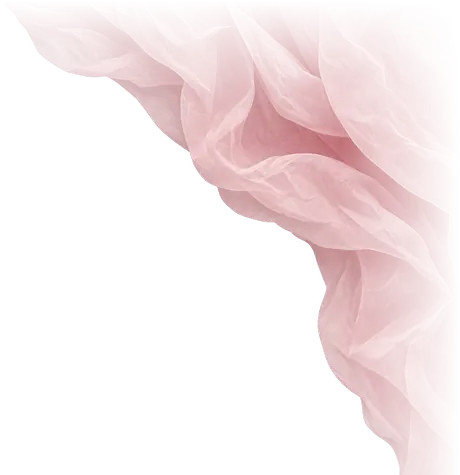
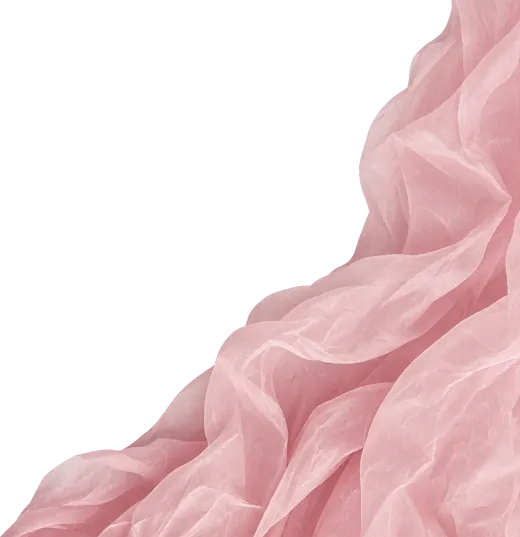
La tela sale entera, sin difuminar nada
Difuminar fue un parche y se notaba: no parecía tela, parecía una mancha.

La lámina viene cortada en recto por arriba y por la derecha. Volteada en
vertical, esos dos cantos pasan a abajo y a la derecha, que es justo por
donde se sale de la página: los recorta el canto de la columna y el final de
la sección, que ya son bordes de verdad. Lo que queda a la vista es el
pliegue entero, sin nada que disimular. Va en píxeles y no en %, para que el
trozo que asoma no cambie con el alto de la sección.

Y al colocarla salió un fallo mío de antes: puse `overflow-x: clip` en las
secciones creyendo que el navegador arrastraba el otro eje. No lo hace.
Recortaba a lo ancho pero dejaba pasar lo que sobraba por abajo, y la tela se
salía del papel sobre el campo de los lados. Ahora es `overflow: clip`, en
los dos ejes; comprobado que la escena de Soffia sigue pegándose.

Comprobado a 375, 480 y 640: sin choques, sin desbordes, sin imágenes rotas.

diff --git a/index.html b/index.html
@@ -11,10 +11,10 @@
 <link rel="preconnect" href="https://fonts.googleapis.com">
 <link rel="preconnect" href="https://fonts.gstatic.com" crossorigin>
 <link rel="stylesheet" href="https://fonts.googleapis.com/css2?family=Cormorant+Garamond:ital,wght@0,300;0,400;0,500;0,600;1,300;1,400&family=Jost:wght@300;400;500&family=Great+Vibes&display=swap">
-<!-- El estilo se decide antes de pintar nada: si se pusiera desde script.js?v=1795373914-2f91c5d
+<!-- El estilo se decide antes de pintar nada: si se pusiera desde script.js?v=1795374507-0600d23
      se vería un parpadeo del estilo viejo al nuevo. Manda ?estilo= de la URL;
-     si no, lo que diga datos.js?v=1795373914-2f91c5d (y por defecto, «papel»). -->
-<script src="datos.js?v=1795373914-2f91c5d"></script>
+     si no, lo que diga datos.js?v=1795374507-0600d23 (y por defecto, «papel»). -->
+<script src="datos.js?v=1795374507-0600d23"></script>
 <script>
   (function () {
     var p = new URLSearchParams(location.search).get('estilo');
@@ -24,8 +24,8 @@
     if (e) try { sessionStorage.setItem('estilo', e); } catch (x) {}
   })();
 </script>
-<link rel="preload" as="image" href="assets/apertura-poster.webp?v=1795373914-2f91c5d">
-<link rel="stylesheet" href="styles.css?v=1795373914-2f91c5d">
+<link rel="preload" as="image" href="assets/apertura-poster.webp?v=1795374507-0600d23">
+<link rel="stylesheet" href="styles.css?v=1795374507-0600d23">
 </head>
 <body class="sin-abrir">
 
@@ -39,21 +39,21 @@
             aria-label="Abrir la invitación de Soffia">
      <span class="lienzo">
       <!-- 1 · el sobre cerrado, quieto, hasta que tocan -->
-      <img class="capa" id="capa-poster" src="assets/apertura-poster.webp?v=1795373914-2f91c5d" alt=""
+      <img class="capa" id="capa-poster" src="assets/apertura-poster.webp?v=1795374507-0600d23" alt=""
            width="1080" height="1920" fetchpriority="high">
 
       <!-- 2 · los dos vídeos, uno detrás de otro. Son dos elementos y no uno
            con la fuente cambiada: así el segundo ya está descargado y pintado
            cuando acaba el primero, y el corte no parpadea. -->
       <video class="capa" id="video-1" muted playsinline preload="auto"
-             aria-hidden="true" src="assets/apertura-1.mp4?v=1795373914-2f91c5d"></video>
+             aria-hidden="true" src="assets/apertura-1.mp4?v=1795374507-0600d23"></video>
       <video class="capa" id="video-2" muted playsinline preload="none"
              aria-hidden="true"></video>
 
       <!-- 3 · la hoja: es el último fotograma del segundo vídeo, así que el
            relevo no se ve. Hace falta porque el navegador tira la imagen de un
            vídeo pausado al salir de pantalla y al volver dibuja la primera. -->
-      <img class="capa" id="capa-final" src="assets/apertura-final.webp?v=1795373914-2f91c5d" alt=""
+      <img class="capa" id="capa-final" src="assets/apertura-final.webp?v=1795374507-0600d23" alt=""
            width="1080" height="1920" fetchpriority="low">
 
       <!-- 3b · y la hoja se asienta: el fotograma del vídeo recorta un 18 %
@@ -61,7 +61,7 @@
            entera y entra creciendo hacia su tamaño real, así que el reencuadre
            se lee como el papel posándose y no como un salto. -->
       <span class="capa hoja-posada" id="hoja-posada" aria-hidden="true">
-        <img src="assets/hoja.webp?v=1795373914-2f91c5d" alt="" width="720" height="1168"
+        <img src="assets/hoja.webp?v=1795374507-0600d23" alt="" width="720" height="1168"
              fetchpriority="low">
       </span>
 
@@ -102,8 +102,8 @@
 <!-- ══════════════ 2 · LA ILUSIÓN ══════════════ -->
 <section class="seccion s-nota" id="nota">
   <div class="costura costura-arriba invertida" aria-hidden="true"></div>
-  <img class="adorno ad-estrellas ad-estrellas-izq" src="assets/ad-estrellas-c.webp?v=1795373914-2f91c5d" alt="" aria-hidden="true" loading="lazy" data-parallax="0.12">
-  <img class="adorno ad-globo" src="assets/ad-globo.webp?v=1795373914-2f91c5d" alt="" aria-hidden="true" loading="lazy" data-parallax="0.08">
+  <img class="adorno ad-estrellas ad-estrellas-izq" src="assets/ad-estrellas-c.webp?v=1795374507-0600d23" alt="" aria-hidden="true" loading="lazy" data-parallax="0.12">
+  <img class="adorno ad-globo" src="assets/ad-globo.webp?v=1795374507-0600d23" alt="" aria-hidden="true" loading="lazy" data-parallax="0.08">
 
   <div class="envoltorio">
     <p class="parrafo-grande revela" id="msj-presentacion" style="--i:0"></p>
@@ -113,8 +113,8 @@
 <!-- ══════════════ 3 · SOFFIA ══════════════ -->
 <section class="seccion s-soffia" id="soffia">
   <div class="costura costura-arriba" aria-hidden="true"></div>
-  <img class="adorno ad-brillo ad-brillo-esferas" src="assets/ad-brillo.webp?v=1795373914-2f91c5d" alt="" aria-hidden="true" loading="lazy" data-parallax="0.13">
-  <img class="adorno ad-esferas" src="assets/ad-esferas.webp?v=1795373914-2f91c5d" alt="" aria-hidden="true" loading="lazy" data-parallax="0.10">
+  <img class="adorno ad-brillo ad-brillo-esferas" src="assets/ad-brillo.webp?v=1795374507-0600d23" alt="" aria-hidden="true" loading="lazy" data-parallax="0.13">
+  <img class="adorno ad-esferas" src="assets/ad-esferas.webp?v=1795374507-0600d23" alt="" aria-hidden="true" loading="lazy" data-parallax="0.10">
 
   <!-- el puente: lo último que se lee antes de que se abran las rosas -->
   <div class="envoltorio">
@@ -131,13 +131,13 @@
     <div class="retrato-marco">
       <img id="foto-portada" alt="Fotografía de Soffia" hidden>
       <div class="retrato-vacio" id="retrato-vacio">
-        <img src="assets/flor-hojas.webp?v=1795373914-2f91c5d" alt="" loading="lazy">
+        <img src="assets/flor-hojas.webp?v=1795374507-0600d23" alt="" loading="lazy">
         <p>Aquí irá la fotografía de Soffia</p>
       </div>
       <!-- tres paneles de rosas: arriba sube, izquierda y derecha se abren -->
-      <img class="velo velo-arriba" src="assets/panel-arriba.webp?v=1795373914-2f91c5d" alt="" loading="lazy">
-      <img class="velo velo-izq" src="assets/panel-izq.webp?v=1795373914-2f91c5d" alt="" loading="lazy">
-      <img class="velo velo-der" src="assets/panel-der.webp?v=1795373914-2f91c5d" alt="" loading="lazy">
+      <img class="velo velo-arriba" src="assets/panel-arriba.webp?v=1795374507-0600d23" alt="" loading="lazy">
+      <img class="velo velo-izq" src="assets/panel-izq.webp?v=1795374507-0600d23" alt="" loading="lazy">
+      <img class="velo velo-der" src="assets/panel-der.webp?v=1795374507-0600d23" alt="" loading="lazy">
     </div>
     <span class="costura costura-foto arriba" aria-hidden="true"></span>
     <span class="costura costura-foto abajo" aria-hidden="true"></span>
@@ -160,8 +160,8 @@
 <!-- ══════════════ 3 · CUÁNDO Y DÓNDE ══════════════ -->
 <section class="seccion s-cuando" id="cuando">
   <div class="costura costura-arriba invertida" aria-hidden="true"></div>
-  <img class="adorno ad-estrellas ad-estrellas-der" src="assets/ad-estrellas-b.webp?v=1795373914-2f91c5d" alt="" aria-hidden="true" loading="lazy" data-parallax="0.12">
-  <img class="adorno ad-guirnalda" src="assets/ad-guirnalda.webp?v=1795373914-2f91c5d" alt="" aria-hidden="true" loading="lazy" data-parallax="0.11">
+  <img class="adorno ad-estrellas ad-estrellas-der" src="assets/ad-estrellas-b.webp?v=1795374507-0600d23" alt="" aria-hidden="true" loading="lazy" data-parallax="0.12">
+  <img class="adorno ad-guirnalda" src="assets/ad-guirnalda.webp?v=1795374507-0600d23" alt="" aria-hidden="true" loading="lazy" data-parallax="0.11">
 
   <div class="envoltorio">
     <p class="antetitulo revela" style="--i:0">Cuándo</p>
@@ -182,8 +182,8 @@
 <!-- ══════════════ 4b · DÓNDE ══════════════ -->
 <section class="seccion s-donde" id="donde">
   <div class="costura costura-arriba" aria-hidden="true"></div>
-  <img class="adorno ad-estrellas ad-estrellas-izq" src="assets/ad-estrellas-c.webp?v=1795373914-2f91c5d" alt="" aria-hidden="true" loading="lazy" data-parallax="0.12">
-  <img class="adorno ad-perlas" src="assets/ad-perlas.webp?v=1795373914-2f91c5d" alt="" aria-hidden="true" loading="lazy" data-parallax="0.12">
+  <img class="adorno ad-estrellas ad-estrellas-izq" src="assets/ad-estrellas-c.webp?v=1795374507-0600d23" alt="" aria-hidden="true" loading="lazy" data-parallax="0.12">
+  <img class="adorno ad-perlas" src="assets/ad-perlas.webp?v=1795374507-0600d23" alt="" aria-hidden="true" loading="lazy" data-parallax="0.12">
 
   <div class="envoltorio">
     <p class="antetitulo revela" style="--i:0">Dónde</p>
@@ -196,8 +196,8 @@
 <!-- ══════════════ 4 · ITINERARIO ══════════════ -->
 <section class="seccion s-itinerario" id="itinerario">
   <div class="costura costura-arriba" aria-hidden="true"></div>
-  <img class="adorno ad-estrellas ad-estrellas-der" src="assets/ad-estrellas-a.webp?v=1795373914-2f91c5d" alt="" aria-hidden="true" loading="lazy" data-parallax="0.12">
-  <img class="adorno ad-mono-a" src="assets/ad-mono-a.webp?v=1795373914-2f91c5d" alt="" aria-hidden="true" loading="lazy" data-parallax="0.10">
+  <img class="adorno ad-estrellas ad-estrellas-der" src="assets/ad-estrellas-a.webp?v=1795374507-0600d23" alt="" aria-hidden="true" loading="lazy" data-parallax="0.12">
+  <img class="adorno ad-mono-a" src="assets/ad-mono-a.webp?v=1795374507-0600d23" alt="" aria-hidden="true" loading="lazy" data-parallax="0.10">
 
   <div class="envoltorio">
     <p class="antetitulo revela" style="--i:0">Así celebraremos</p>
@@ -214,8 +214,8 @@
 <!-- ══════════════ 5 · VESTIMENTA ══════════════ -->
 <section class="seccion s-vestir" id="vestir" hidden>
   <div class="costura costura-arriba invertida" aria-hidden="true"></div>
-  <img class="adorno ad-estrellas ad-estrellas-izq" src="assets/ad-estrellas-c.webp?v=1795373914-2f91c5d" alt="" aria-hidden="true" loading="lazy" data-parallax="0.12">
-  <img class="adorno ad-cintas" src="assets/ad-cintas.webp?v=1795373914-2f91c5d" alt="" aria-hidden="true" loading="lazy" data-parallax="0.10">
+  <img class="adorno ad-estrellas ad-estrellas-izq" src="assets/ad-estrellas-c.webp?v=1795374507-0600d23" alt="" aria-hidden="true" loading="lazy" data-parallax="0.12">
+  <img class="adorno ad-cintas" src="assets/ad-cintas.webp?v=1795374507-0600d23" alt="" aria-hidden="true" loading="lazy" data-parallax="0.10">
 
   <div class="envoltorio">
     <div class="vestimenta" id="vestimenta" hidden></div>
@@ -225,9 +225,9 @@
 <!-- ══════════════ 6 · CONFIRMACIÓN ══════════════ -->
 <section class="seccion s-confirmar" id="confirmar">
   <div class="costura costura-arriba" aria-hidden="true"></div>
-  <img class="adorno ad-estrellas ad-estrellas-izq" src="assets/ad-estrellas-b.webp?v=1795373914-2f91c5d" alt="" aria-hidden="true" loading="lazy" data-parallax="0.12">
-  <img class="adorno ad-brillo ad-brillo-globos" src="assets/ad-brillo.webp?v=1795373914-2f91c5d" alt="" aria-hidden="true" loading="lazy" data-parallax="0.13">
-  <img class="adorno ad-globos" src="assets/ad-globos.webp?v=1795373914-2f91c5d" alt="" aria-hidden="true" loading="lazy" data-parallax="0.09">
+  <img class="adorno ad-estrellas ad-estrellas-izq" src="assets/ad-estrellas-b.webp?v=1795374507-0600d23" alt="" aria-hidden="true" loading="lazy" data-parallax="0.12">
+  <img class="adorno ad-brillo ad-brillo-globos" src="assets/ad-brillo.webp?v=1795374507-0600d23" alt="" aria-hidden="true" loading="lazy" data-parallax="0.13">
+  <img class="adorno ad-globos" src="assets/ad-globos.webp?v=1795374507-0600d23" alt="" aria-hidden="true" loading="lazy" data-parallax="0.09">
 
   <div class="envoltorio">
     <p class="antetitulo revela" style="--i:0">Nos vemos en mis XV</p>
@@ -239,15 +239,15 @@
 <!-- ══════════════ 7 · DESPEDIDA ══════════════ -->
 <section class="seccion s-cierre" id="cierre">
   <div class="costura costura-arriba invertida" aria-hidden="true"></div>
-  <img class="adorno ad-tela" src="assets/ad-tela.webp?v=1795373914-2f91c5d" alt="" aria-hidden="true" loading="lazy" data-parallax="0.07">
-  <img class="adorno ad-estrellas ad-estrellas-der" src="assets/ad-estrellas-c.webp?v=1795373914-2f91c5d" alt="" aria-hidden="true" loading="lazy" data-parallax="0.12">
-  <img class="adorno ad-mono-b" src="assets/ad-mono-b.webp?v=1795373914-2f91c5d" alt="" aria-hidden="true" loading="lazy" data-parallax="0.10">
+  <img class="adorno ad-tela" src="assets/ad-tela.webp?v=1795374507-0600d23" alt="" aria-hidden="true" loading="lazy" data-parallax="0.07">
+  <img class="adorno ad-estrellas ad-estrellas-der" src="assets/ad-estrellas-c.webp?v=1795374507-0600d23" alt="" aria-hidden="true" loading="lazy" data-parallax="0.12">
+  <img class="adorno ad-mono-b" src="assets/ad-mono-b.webp?v=1795374507-0600d23" alt="" aria-hidden="true" loading="lazy" data-parallax="0.10">
   <!-- el cierre se monta en tres piezas: la rosa donde aterriza la que cae,
        y el follaje de cada lado, que sale de detrás cuando ya está posada -->
   <span class="flor flor-cierre-b" aria-hidden="true" data-parallax="0.09">
-    <img class="cierre-hoja cierre-izq" src="assets/flor-bajo-izq.webp?v=1795373914-2f91c5d" alt="" loading="lazy">
-    <img class="cierre-hoja cierre-der" src="assets/flor-bajo-der.webp?v=1795373914-2f91c5d" alt="" loading="lazy">
-    <img class="cierre-rosa" src="assets/flor-bajo-rosa.webp?v=1795373914-2f91c5d" alt="" loading="lazy">
+    <img class="cierre-hoja cierre-izq" src="assets/flor-bajo-izq.webp?v=1795374507-0600d23" alt="" loading="lazy">
+    <img class="cierre-hoja cierre-der" src="assets/flor-bajo-der.webp?v=1795374507-0600d23" alt="" loading="lazy">
+    <img class="cierre-rosa" src="assets/flor-bajo-rosa.webp?v=1795374507-0600d23" alt="" loading="lazy">
   </span>
 
   <div class="envoltorio">
@@ -265,9 +265,9 @@
 
 <!-- la rosa que se desprende de la tarjeta y baja con el scroll -->
 <span class="petalo" id="petalo" aria-hidden="true">
-  <img class="petalo-cara" id="rosa-frente" src="assets/rosa-frente.webp?v=1795373914-2f91c5d" alt="">
-  <img class="petalo-cara" id="rosa-tres"   src="assets/rosa-tres.webp?v=1795373914-2f91c5d"   alt="">
-  <img class="petalo-cara" id="rosa-perfil" src="assets/rosa-perfil.webp?v=1795373914-2f91c5d" alt="">
+  <img class="petalo-cara" id="rosa-frente" src="assets/rosa-frente.webp?v=1795374507-0600d23" alt="">
+  <img class="petalo-cara" id="rosa-tres"   src="assets/rosa-tres.webp?v=1795374507-0600d23"   alt="">
+  <img class="petalo-cara" id="rosa-perfil" src="assets/rosa-perfil.webp?v=1795374507-0600d23" alt="">
 </span>
 
 <button type="button" class="audio" id="audio" hidden aria-pressed="false"
@@ -279,6 +279,6 @@
   Vista previa
 </div>
 
-<script src="script.js?v=1795373914-2f91c5d"></script>
+<script src="script.js?v=1795374507-0600d23"></script>
 </body>
 </html>

diff --git a/styles.css b/styles.css
@@ -71,7 +71,7 @@ body{
 body::before{
   content:''; position:fixed; inset:0; z-index:9;
   pointer-events:none;
-  background:url('assets/papel-marfil.webp?v=1795373914-2f91c5d') repeat;
+  background:url('assets/papel-marfil.webp?v=1795374507-0600d23') repeat;
   background-size:360px 360px;
   opacity:.5; mix-blend-mode:multiply;
 }
@@ -218,8 +218,8 @@ body.hoja-posada-lista .hoja-posada img{ opacity:1; transform:none; }
 /* la máscara deja ver la tarjeta solo por encima de la V de la solapa */
 .marco-tarjeta{
   position:absolute; inset:0; display:block;
-  -webkit-mask-image:url('assets/mascara-tarjeta.png?v=1795373914-2f91c5d');
-          mask-image:url('assets/mascara-tarjeta.png?v=1795373914-2f91c5d');
+  -webkit-mask-image:url('assets/mascara-tarjeta.png?v=1795374507-0600d23');
+          mask-image:url('assets/mascara-tarjeta.png?v=1795374507-0600d23');
   -webkit-mask-size:100% 66.5072%;
           mask-size:100% 66.5072%;
   -webkit-mask-position:top left;  mask-position:top left;
@@ -425,7 +425,7 @@ main{ display:block; }
 /* costuras de papel rasgado entre secciones */
 .costura{
   position:absolute; top:-2px; left:0; width:100%; height:clamp(26px,6.4vw,40px);
-  background:url('assets/tira-papel.webp?v=1795373914-2f91c5d') center bottom / 100% 100% no-repeat;
+  background:url('assets/tira-papel.webp?v=1795374507-0600d23') center bottom / 100% 100% no-repeat;
   z-index:1; pointer-events:none;
   filter: drop-shadow(0 3px 5px rgba(130,97,80,.1));
 }
@@ -1039,9 +1039,14 @@ body.anima .revela.visible{ opacity:1; transform:none; }
    sticky y sube por delante, así que cualquier adorno anclado a la sección
    acaba cruzando el nombre. Ya tiene el racimo de espejo y el halo. */
 
-/* La tela entra por la esquina y se va fuera de cuadro: el corte recto que
-   trae la lámina queda siempre fuera. */
-.ad-tela          { width:44%; bottom:-6%; right:-13%; --giro:0deg; opacity:.85; }
+/* La tela sale por la esquina de abajo a la derecha, y la lámina va volteada
+   en vertical para que sus dos cantos cortados —arriba y la derecha en el
+   original— caigan justo ahí. Los recorta el canto de la columna y el final
+   de la página, que ya son bordes de verdad: no hace falta difuminar nada, y
+   lo que queda a la vista es el pliegue entero.
+   En píxeles y no en %, para que el trozo que asoma no cambie con el alto de
+   la sección. */
+.ad-tela          { width:46%; bottom:-72px; right:-58px; opacity:.9; --giro:0deg; }
 
 .ad-brillo        { opacity:.78; }
 .ad-brillo-esferas{ width:42%; top:-34px;    left:-7%;  --giro:0deg; }
@@ -1131,7 +1136,11 @@ body.anima .revela.visible{ opacity:1; transform:none; }
      la página. `clip` y no `hidden`: `hidden` convierte la sección en un
      contenedor de scroll y la escena de Soffia, que va pegada con sticky,
      dejaría de pegarse. `clip` recorta sin tocar el scroll. */
-  overflow-x: clip;
+  /* `clip` en los DOS ejes. Con `overflow-x` solo, el navegador recorta a lo
+     ancho pero deja pasar lo que sobra por abajo, y la tela se salía del
+     papel. `clip` no crea contenedor de scroll, así que la escena de Soffia
+     sigue pegándose. */
+  overflow: clip;
 }
 
 /* El papel se va casi al blanco. En la referencia que eligió Soffia el fondo

diff --git a/script.js b/script.js
@@ -48,7 +48,7 @@ let   abierto   = false;
    aparecen las letras encima. Los dos vídeos van en dos elementos distintos:
    el segundo se precarga mientras corre el primero, así el corte entre ellos
    no parpadea (el último fotograma de uno es el primero del otro). */
-const VIDEOS = ['assets/apertura-1.mp4?v=1795373914-2f91c5d', 'assets/apertura-2.mp4?v=1795373914-2f91c5d'];
+const VIDEOS = ['assets/apertura-1.mp4?v=1795374507-0600d23', 'assets/apertura-2.mp4?v=1795374507-0600d23'];
 
 /* El texto va centrado sobre LA HOJA, no sobre la pantalla. La hoja cambia
    de tamaño y de sitio según la proporción del móvil, así que un porcentaje
@@ -203,7 +203,7 @@ if (MODO === 'video' && !yaAbierto && !QUIETO) {
   setTimeout(pedirSegundo, 2500);          // red lenta: no esperamos para siempre
 }
 
-/* ══════════════ 2 · CONTENIDO DESDE datos.js?v=1795373914-2f91c5d ══════════════ */
+/* ══════════════ 2 · CONTENIDO DESDE datos.js?v=1795374507-0600d23 ══════════════ */
 
 if (PREVIA && $('#aviso-previa')) $('#aviso-previa').hidden = false;
 
